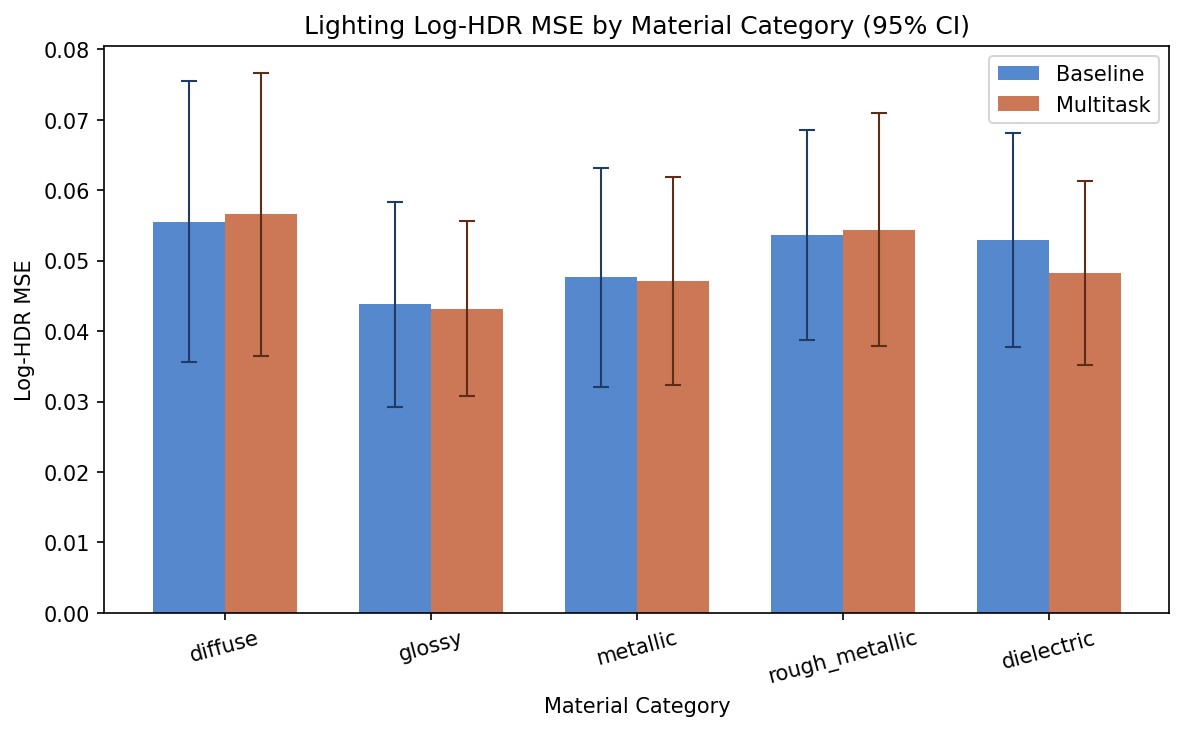
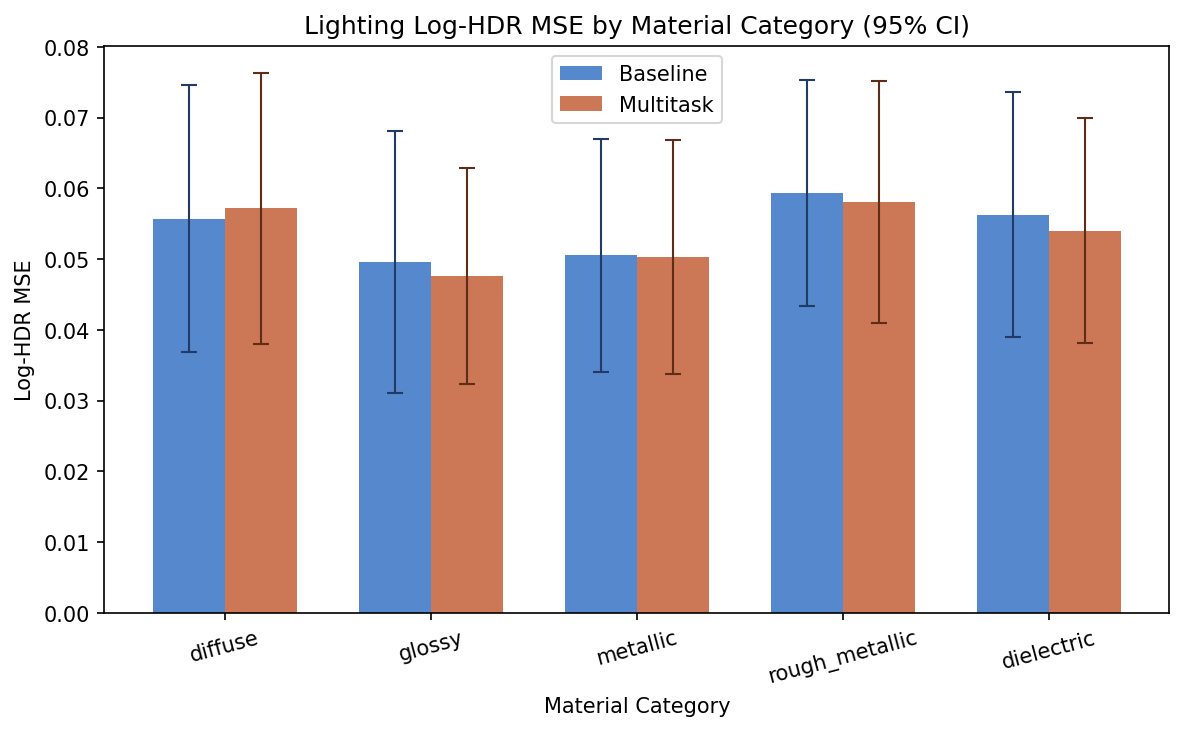
ran once with new weightings

diff --git a/code/config.py b/code/config.py
@@ -31,7 +31,7 @@ class Config:
     envmap_height = 64
     envmap_width = 128
     envmaps_root = "./dataset/envmaps"
-    log_eps = 1.0  # log(eps + x) — log1p style for HDR loss
+    log_eps = 1e-2  # log(eps + x); small eps preserves HDR slope at high values
     
     # Training
     batch_size = 32
@@ -46,8 +46,8 @@ class Config:
     #   MSE keeps the global radiometry, L1 reduces blur from bright outliers,
     #   SSIM preserves local contrast / sun-disk structure.
     lighting_mse_weight = 1.0
-    lighting_l1_weight = 0.5
-    lighting_ssim_weight = 0.2
+    lighting_l1_weight = 0.1
+    lighting_ssim_weight = 0.05
     
     # Model
     backbone = "resnet50" # "resnet18"/"efficientnet"
